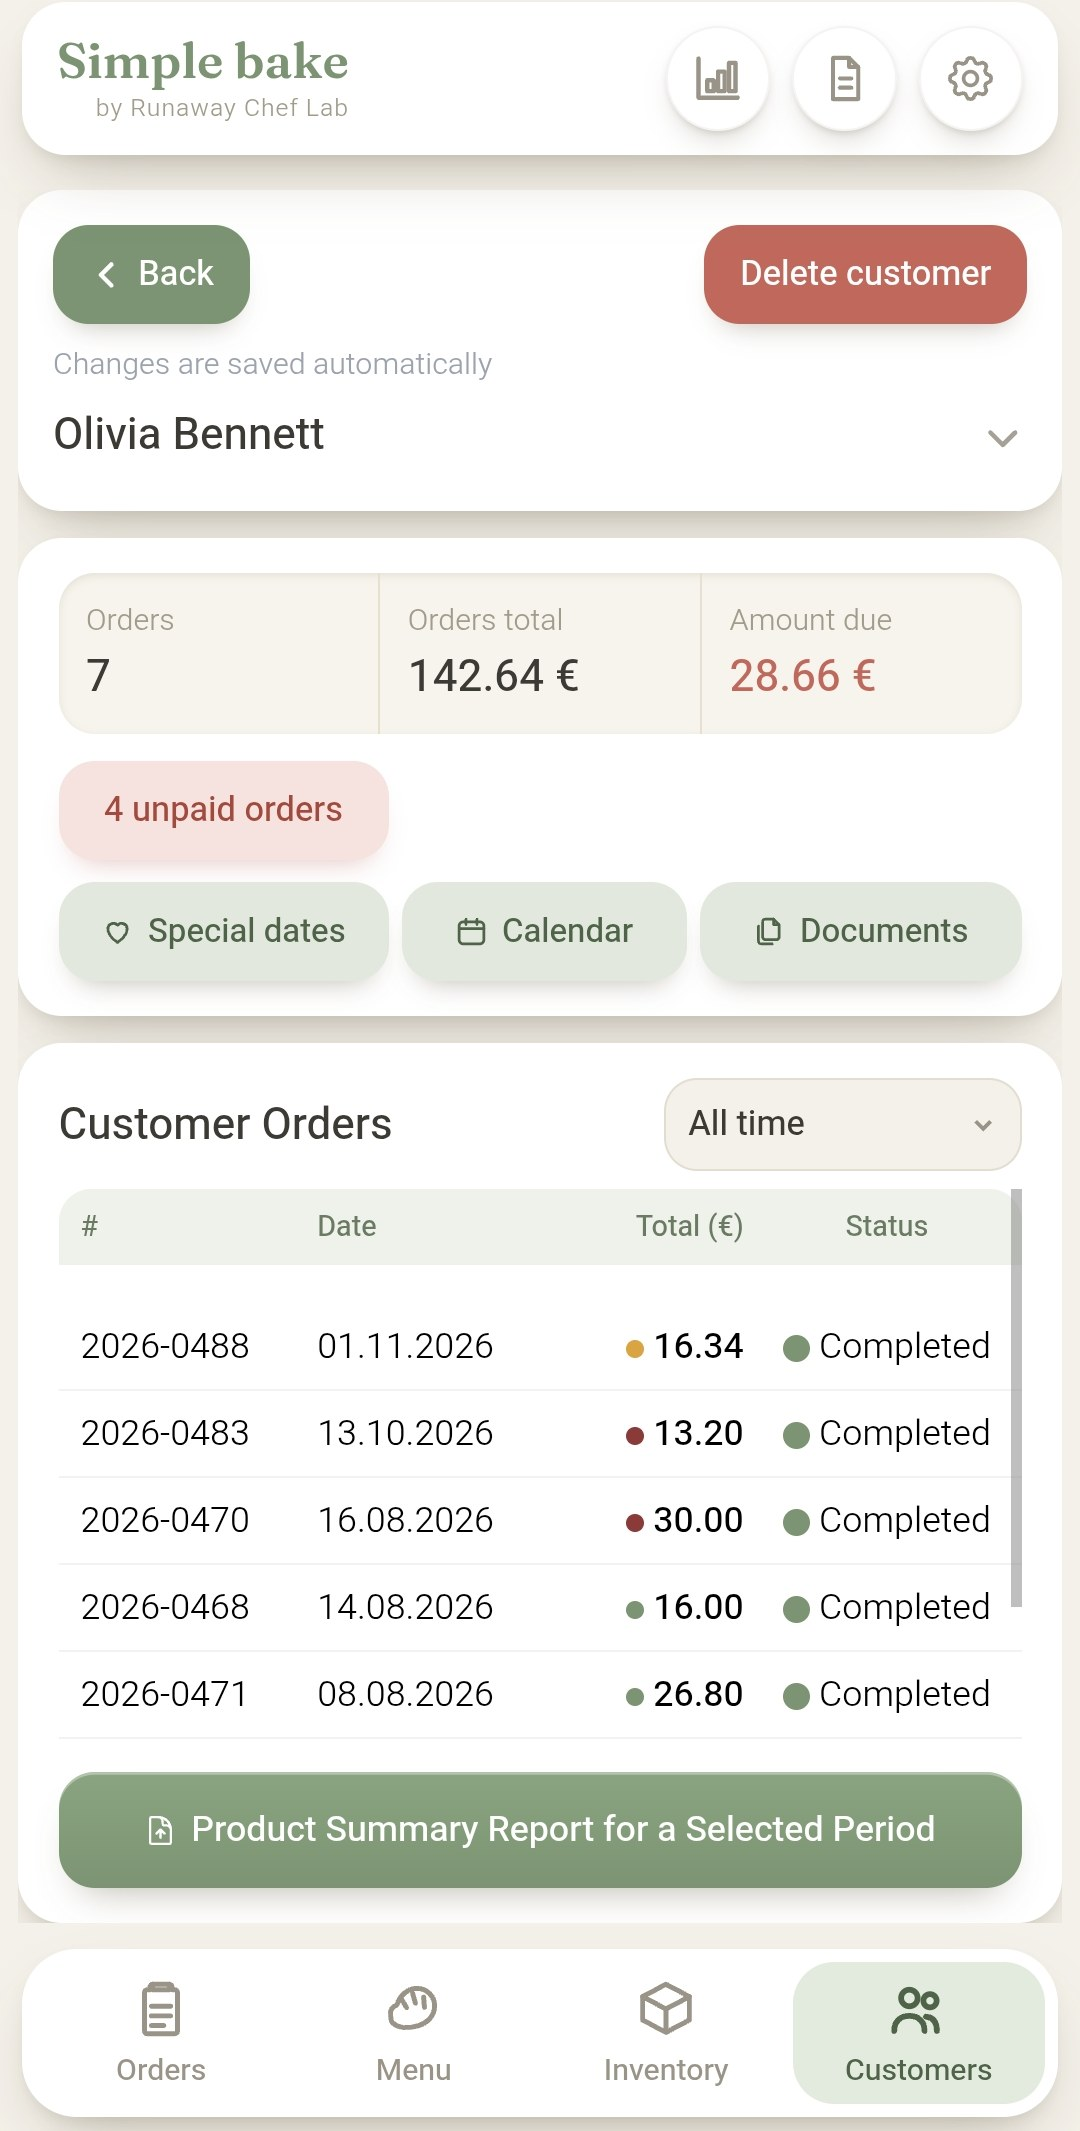
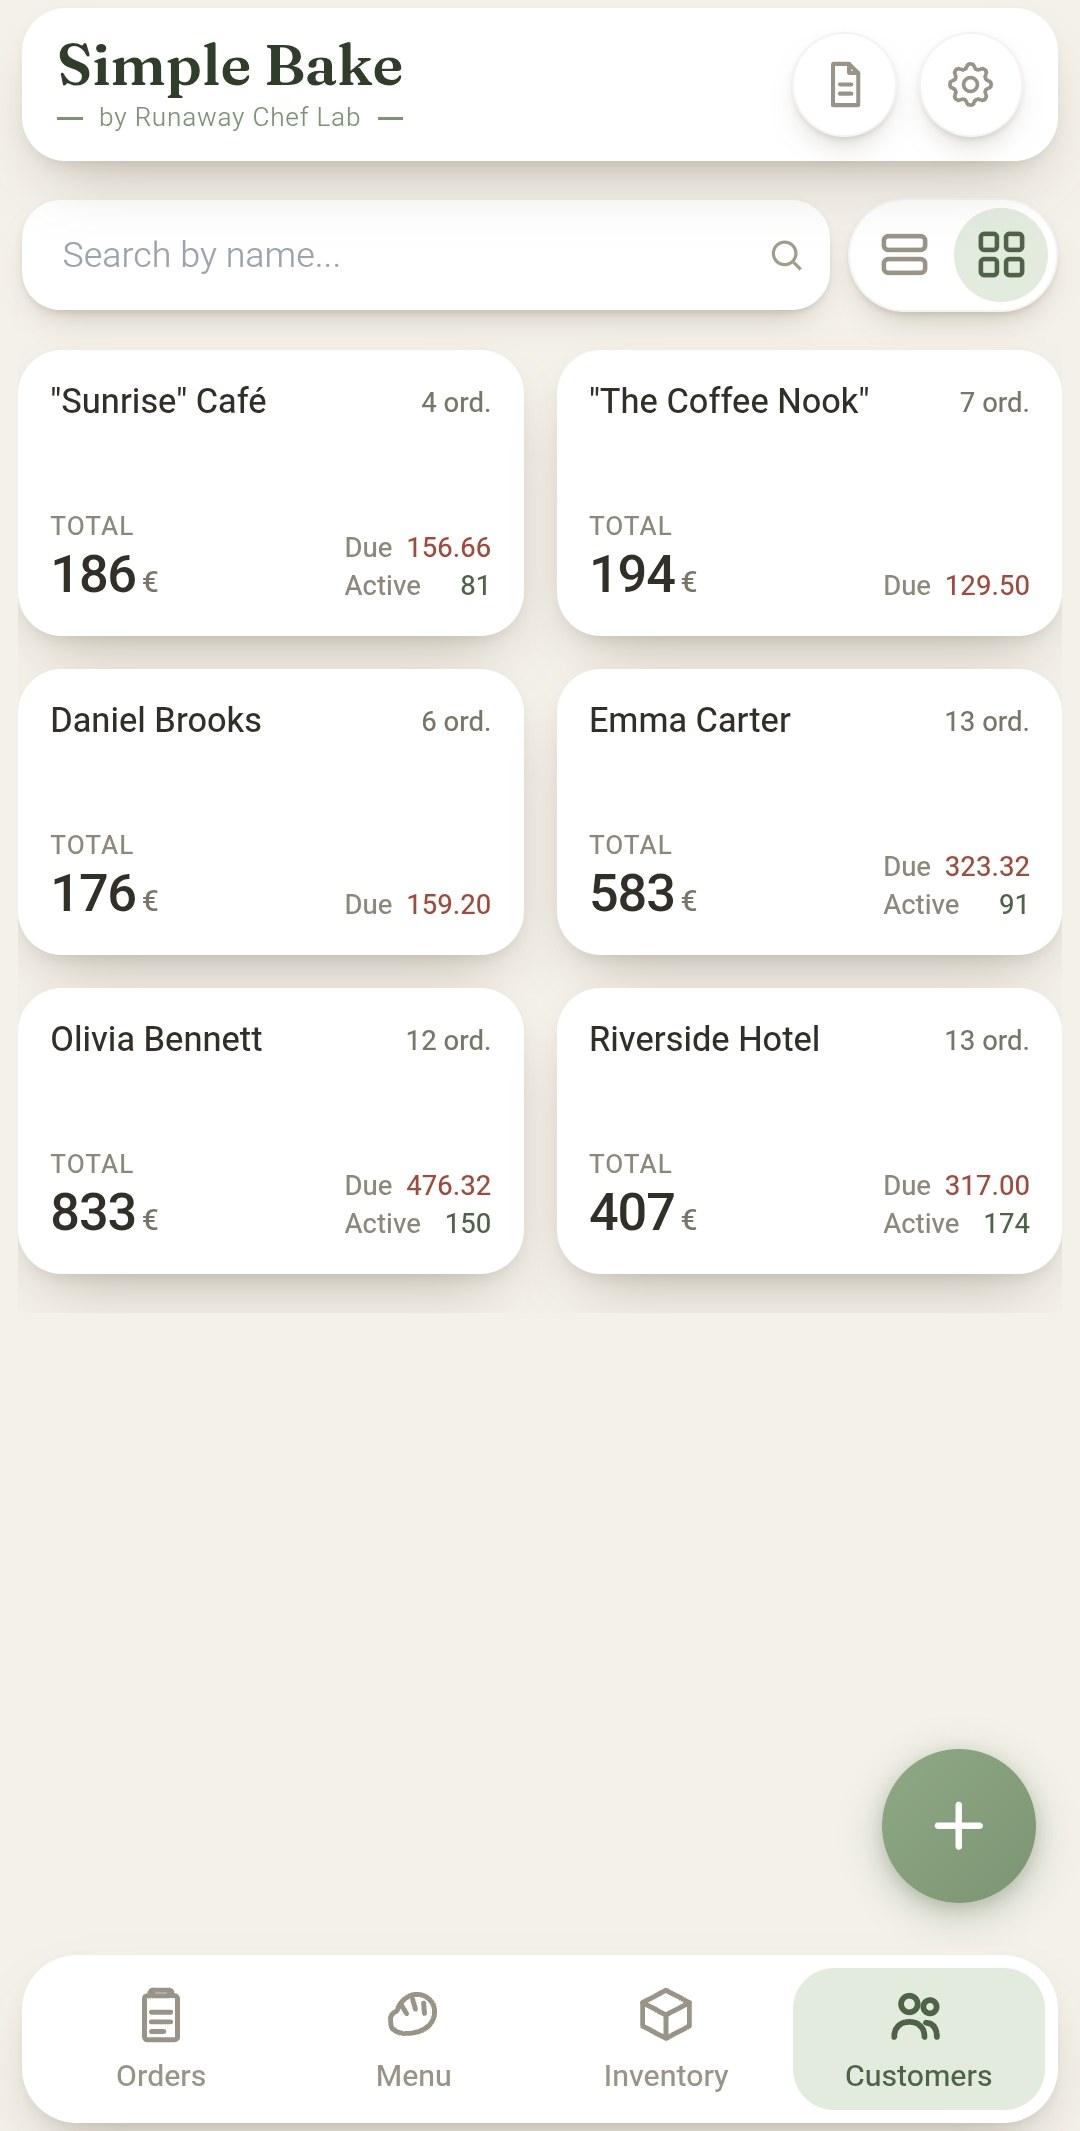
Лендинг: заменён скриншот «Клиенты»
Claude-Session: https://claude.ai/code/session_018uu4DZRk7cezosbS4XUcZe

Changed region(s): [[0.0, 0.0, 1.0, 1.0]]

diff --git a/index.html b/index.html
@@ -369,7 +369,7 @@
       </div>
       <div class="showcase-phone">
         <div class="phone-frame">
-          <img src="screenshot-customers.jpg?v=20261104" alt="Simple Bake — customer report">
+          <img src="screenshot-customers.jpg?v=20261121" alt="Simple Bake — customer report">
         </div>
       </div>
     </div>
